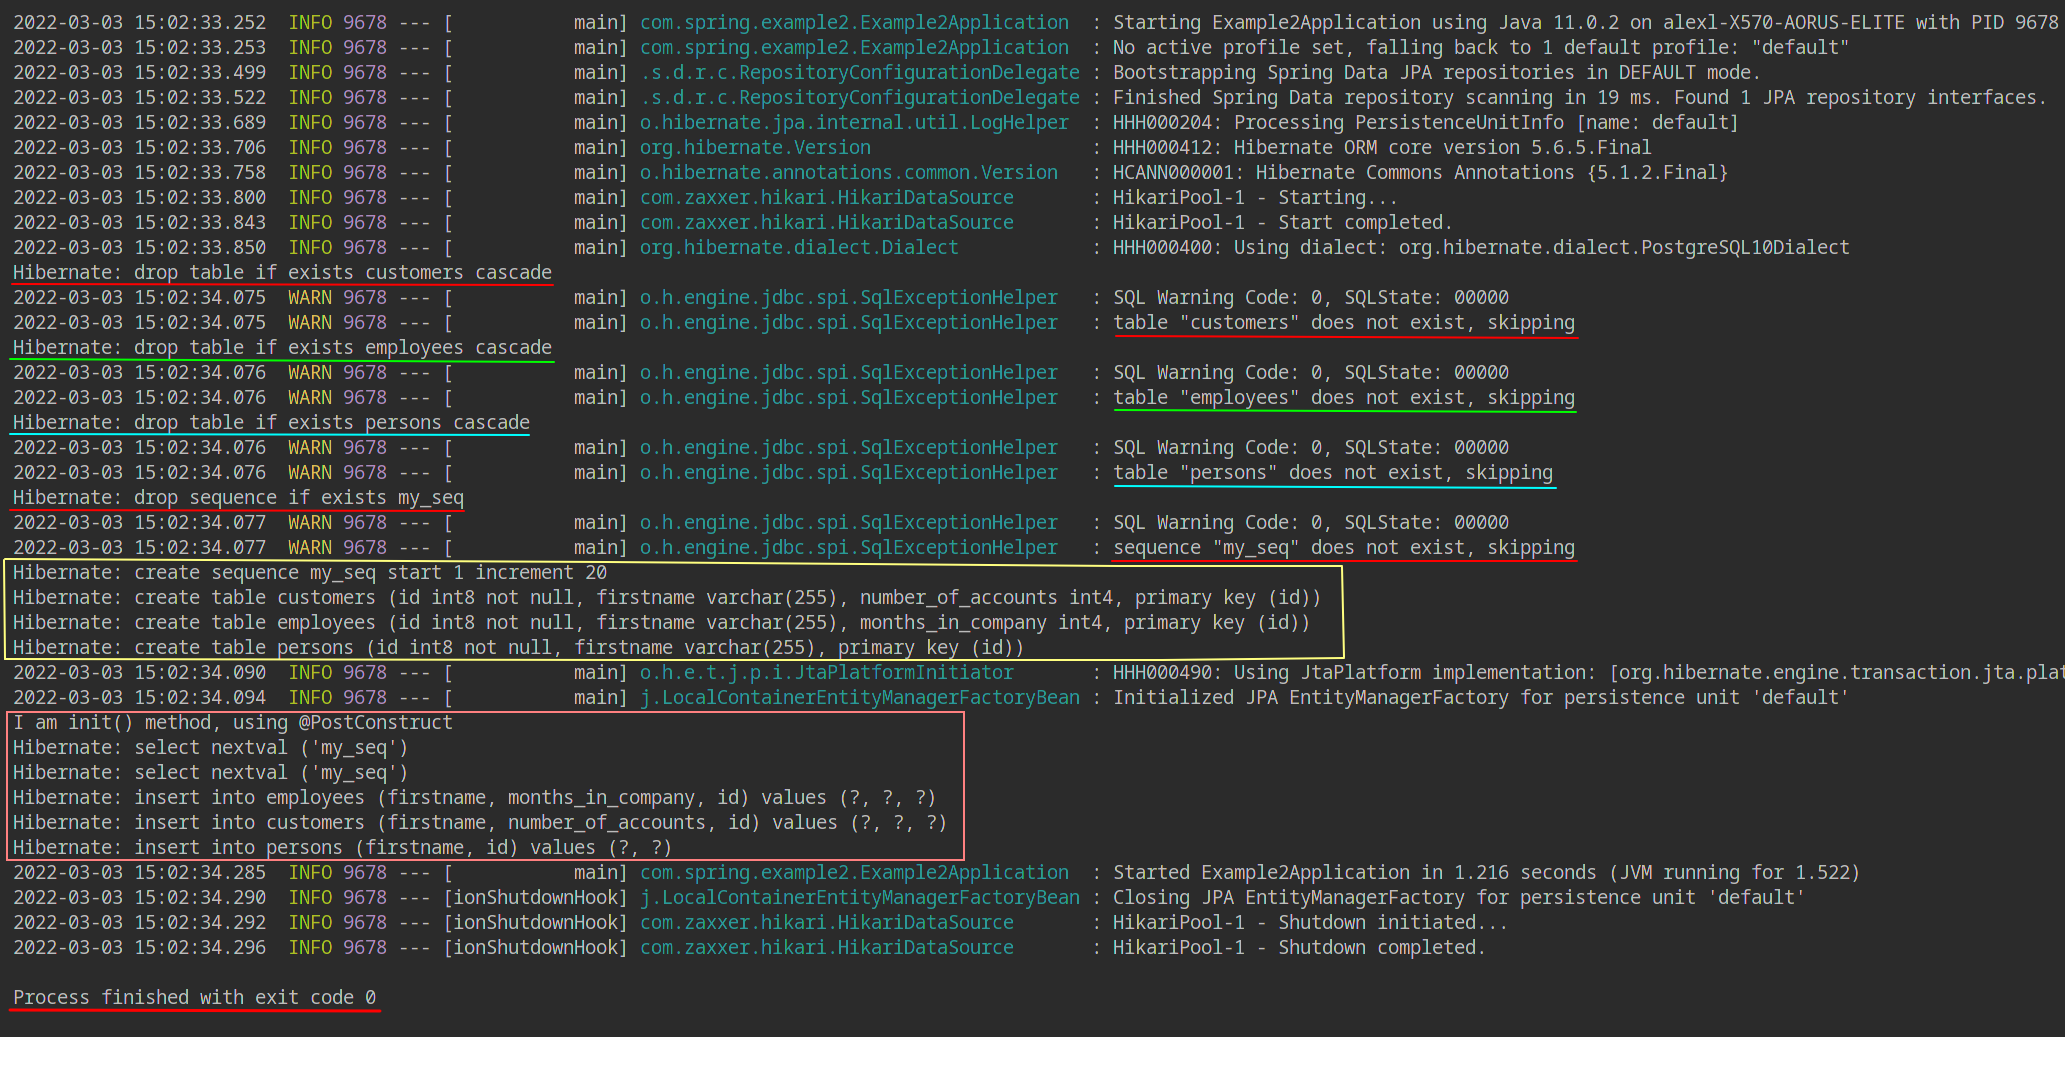
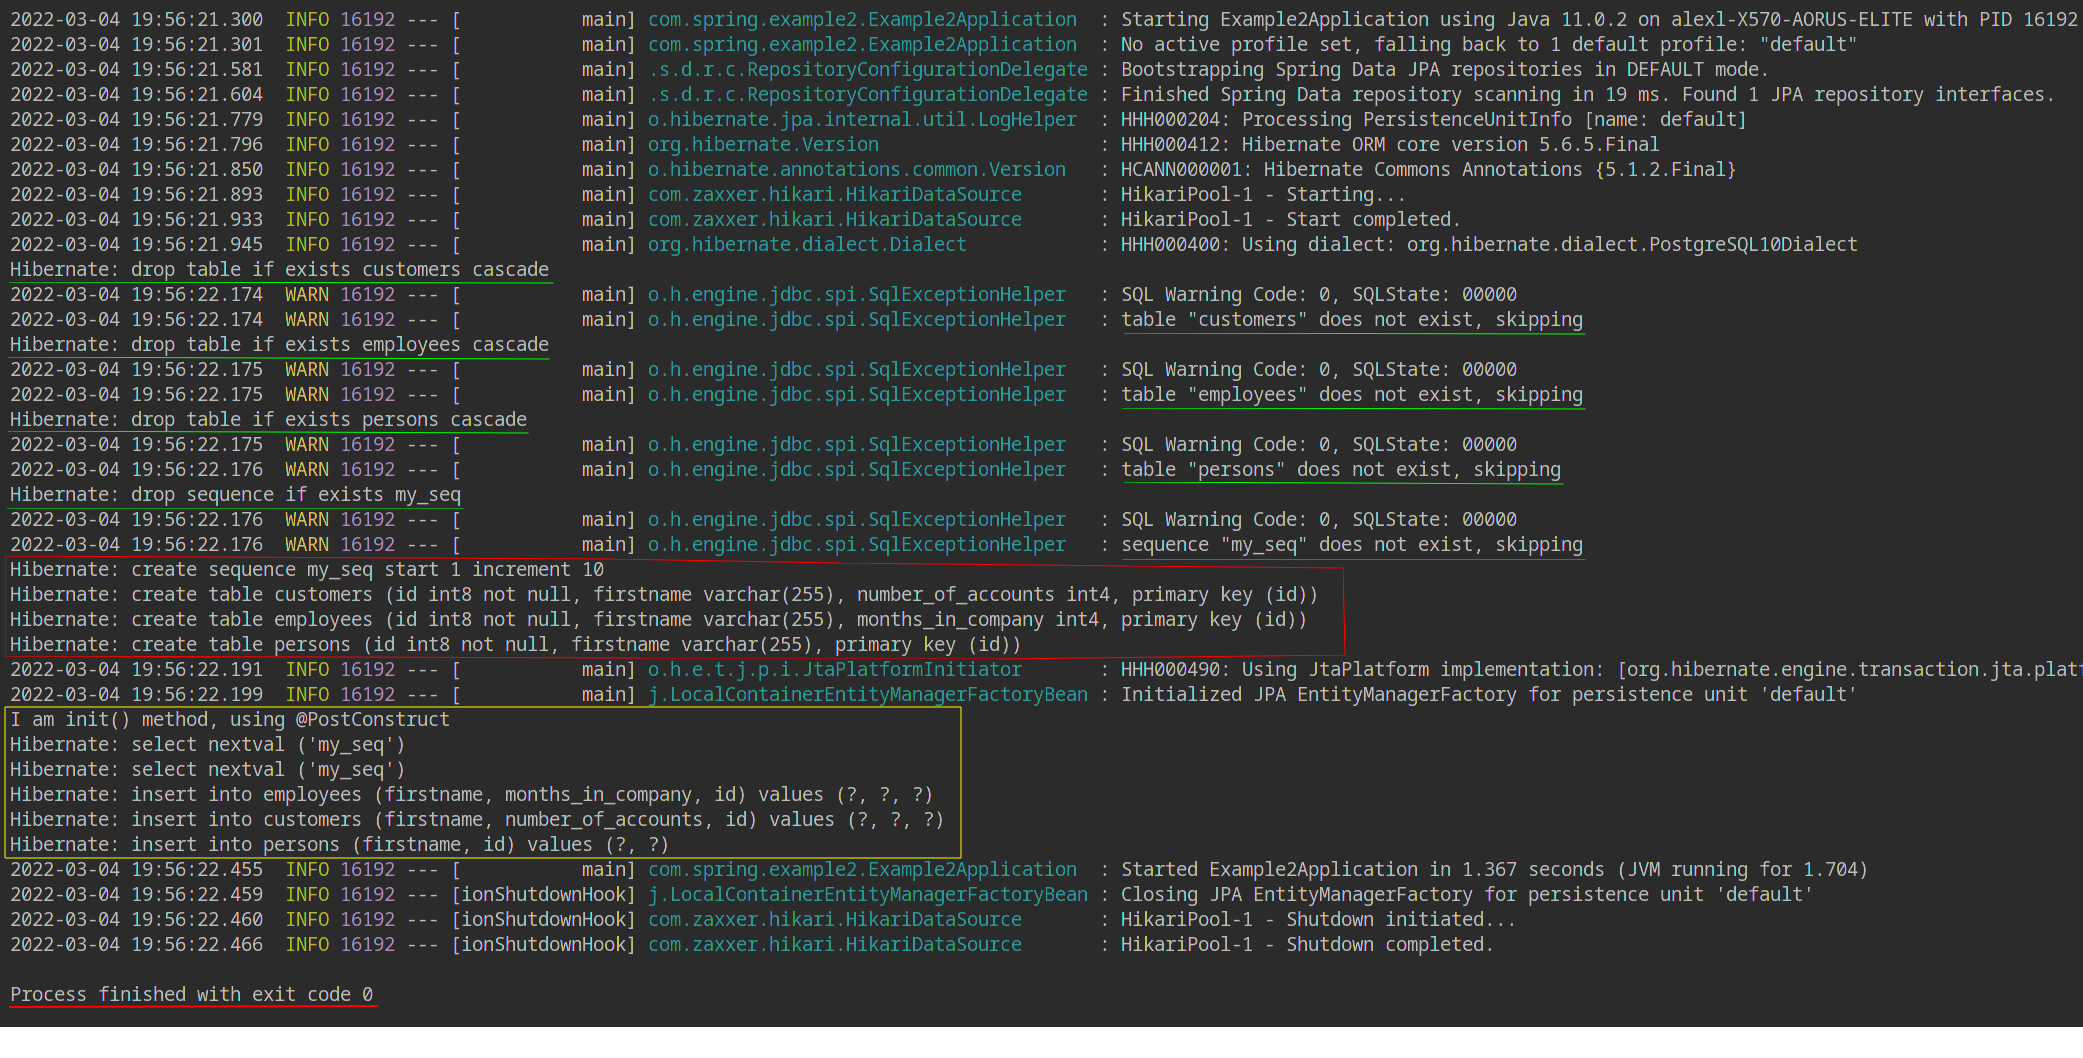
refactoring

Changed region(s): [[0.0, 0.0, 1.0, 0.9981]]

diff --git a/example4_single_table/src/main/java/com/spring/example4/Example4Application.java b/example4_single_table/src/main/java/com/spring/example4/Example4Application.java
@@ -30,13 +30,13 @@ public class Example4Application {
         System.out.println("I am init() method, using @PostConstruct");
 
         Employee employee = new Employee();
-        employee.setMonthsInCompany(11);
-        employee.setFirstname("Егорка");
+        employee.setMonthsInCompany(19);
+        employee.setFirstname("Кирил");
         personRepository.save(employee);
 
         Customer customer = new Customer();
-        customer.setNumberOfAccounts(12);
-        customer.setFirstname("Славик");
+        customer.setNumberOfAccounts(2);
+        customer.setFirstname("Федя");
         personRepository.save(customer);
 
         System.out.println("Select all persons");

diff --git a/example1_mapped_superclass/src/main/java/com/spring/example1/entity/Person.java b/example1_mapped_superclass/src/main/java/com/spring/example1/entity/Person.java
@@ -11,8 +11,8 @@ import javax.persistence.*;
 public abstract class Person {
 
     @Id
-    @GeneratedValue(strategy = GenerationType.SEQUENCE, generator = "my_seq")
-    @SequenceGenerator(name = "my_seq", sequenceName = "my_seq", allocationSize = 1)
+    @GeneratedValue(strategy = GenerationType.SEQUENCE, generator = "my_generator")
+    @SequenceGenerator(name = "my_generator", sequenceName = "my_seq", allocationSize = 1)
     @Column(name = "id")
     private Long id;
 

diff --git a/example2_table_per_class/src/main/java/com/spring/example2/entity/Person.java b/example2_table_per_class/src/main/java/com/spring/example2/entity/Person.java
@@ -14,7 +14,7 @@ public class Person {
 
     @Id
     @GeneratedValue(strategy = GenerationType.SEQUENCE, generator = "my_generator")
-    @SequenceGenerator(name = "my_generator", sequenceName = "my_seq", allocationSize = 20)
+    @SequenceGenerator(name = "my_generator", sequenceName = "my_seq", allocationSize = 10)
     @Column(name = "id")
     private Long id;
 

diff --git a/README.md b/README.md
@@ -1,5 +1,4 @@
-# Info
-- **Стратегии наследования в Hibernate**.
+# Стратегии наследования в Hibernate
 - Простые примеры кода.
 
 ### Модуль example1_mapped_superclass
@@ -16,24 +15,28 @@
    
 _Person_ — не сущность, в него просто вынесены общие поля сущностей _Employee_ и _Customer_.
 Класс _Person_ можно сделать **абстрактным**. Этот класс можно было бы назвать _AbstractEntity_.
-Ассоциаций (_@ManyToOne_, _@OneToMany_ и т.д.) с ним сделать нельзя!
+Ассоциаций (_@ManyToOne_, _@OneToMany_ и т.д.) с ним делать нельзя!
 
-**GenerationType.SEQUENCE** ("_sequence_" - "_последовательность_") - это специальный тип для генерации
+**_GenerationType.SEQUENCE_** ("_sequence_" - "_последовательность_") - это специальный тип для генерации
 значений из последовательности. Создаёте в базе данных, которая его поддерживает, например Postgres:  
 `CREATE SEQUENCE my_seq START WITH 100000;`  
 Используете в качестве генератора.
 
 `allocationSize` ("_allocation_" - "_распределение_") указывает Hibernat-у сколько нужно резервировать значений
-из последовательности за одно обращение к базе данных. В данном случае на каждое обращение - 1 значение. Чем больше,
+из последовательности за одно обращение к базе данных. В данном случае на каждое обращение 1 значение. Чем больше,
 тем сильнее снижается нагрузка на базу данных, но больше расходуется последовательность (иногда впустую).
 
 4. Дочерние классы _Employee_ и _Customer_:  
 ![](https://github.com/aleksey-nsk/inheritance_in_hibernate/blob/master/screenshots/example1/02_03_employee_and_customer.png)  
 
-5. Использована БД _Postgres_ в контейнере _Docker_. Настройки контейнера указываем в файле `docker-compose.yaml`:  
-![](https://github.com/aleksey-nsk/inheritance_in_hibernate/blob/master/screenshots/example1/04_docker_compose.png)  
+5. Репозиторий PersonRepository выглядит так:  
+![](https://github.com/aleksey-nsk/inheritance_in_hibernate/blob/master/screenshots/example1/04_1_repo.png)  
 
-6. Настройки подключения к БД прописываем в файле `application.yaml`:  
+6. Использована БД _Postgres_ в контейнере _Docker_. Настройки контейнера указываем  
+в файле `docker-compose.yaml`:  
+![](https://github.com/aleksey-nsk/inheritance_in_hibernate/blob/master/screenshots/example1/04_2_docker_compose.png)  
+
+7. Настройки подключения к БД прописываем в файле `application.yaml`:  
 ![](https://github.com/aleksey-nsk/inheritance_in_hibernate/blob/master/screenshots/example1/05_application.png)  
 
 In Spring/Spring-Boot, SQL database can be initialized in different ways depending on what your stack is.
@@ -58,17 +61,17 @@ otherwise `none` for all other cases.
 
 **В продакшене лучше выставлять значения `false` и `none`!**
 
-7. Главный класс выглядит так:  
+8. Главный класс выглядит так:  
 ![](https://github.com/aleksey-nsk/inheritance_in_hibernate/blob/master/screenshots/example1/06_main_class.png)  
 
-Spring allows us to attach custom actions to _bean creation and destruction_. We can, for example, do it
+Spring allows us to attach custom actions to **bean creation and destruction**. We can, for example, do it
 by implementing the _InitializingBean_ and _DisposableBean_ interfaces. A second possibility: the _@PostConstruct_
 and _@PreDestroy_ annotations.
 
-**Spring calls methods annotated with @PostConstruct only once, just after the initialization of bean properties**.
+**Spring calls methods annotated with _@PostConstruct_ only once, just after the initialization of bean properties**.
 Keep in mind that these methods will run even if there is nothing to initialize.
 The method annotated with _@PostConstruct_ can have any access level but it can't be static.
-One example usage of @PostConstruct is populating a database. During development, for instance,
+One example usage of _@PostConstruct_ is populating a database. During development, for instance,
 we might want to create some default users:
 
     @Component
@@ -88,7 +91,8 @@ we might want to create some default users:
 The above example will first initialize _UserRepository_ and then run _@PostConstruct_ method.
 
 **A method annotated with @PreDestroy runs only once, just before Spring removes our bean from the application context**.
-Same as with _@PostConstruct_, the methods annotated with _@PreDestroy_ can have any access level but can't be static.
+Same as with _@PostConstruct_, the methods annotated with _@PreDestroy_ can have any access level but
+can't be static. The example:
 
     @Component
     public class UserRepository {
@@ -104,19 +108,19 @@ Same as with _@PostConstruct_, the methods annotated with _@PreDestroy_ can have
 The purpose of this method should be to release resources or perform any other cleanup tasks
 before the bean gets destroyed, for example closing a database connection.
 
-8. Далее настроить подключение к БД на вкладке Database:  
+9. Далее настроить подключение к БД на вкладке Database:  
 ![](https://github.com/aleksey-nsk/inheritance_in_hibernate/blob/master/screenshots/example1/07_data_source.png)  
 
-9. Запускаем приложение:  
+10. Запускаем приложение:  
 ![](https://github.com/aleksey-nsk/inheritance_in_hibernate/blob/master/screenshots/example1/08_app_running.png)  
 
-10. Теперь смотрим созданные таблицы. Сгенерированы 2 независимые таблицы (внешних ключей нет, только первичные).
+11. Теперь смотрим созданные таблицы. Сгенерированы 2 независимые таблицы (внешних ключей нет, только первичные).
 Они включают поля родительского класса и свои:  
 ![](https://github.com/aleksey-nsk/inheritance_in_hibernate/blob/master/screenshots/example1/09_tables_structure.png)  
 ![](https://github.com/aleksey-nsk/inheritance_in_hibernate/blob/master/screenshots/example1/10_quick_documentation.png)  
 
-11. В итоге сохранять можно только дочерние сущности — они пойдут в независимые таблицы
-и будут включать поля родительской сущности. Отдельно _Customer_ не сохранить, это абстракция, в которую
+12. В итоге сохранять можно только дочерние сущности — они пойдут в независимые таблицы
+и будут включать поля родительской сущности. Отдельно _Person_ не сохранить, это абстракция, в которую
 вынесена часть полей.
 
 ### Модуль example2_table_per_class
@@ -125,7 +129,8 @@ before the bean gets destroyed, for example closing a database connection.
 
 Заметим, что при стратегии наследования _InheritanceType.TABLE_PER_CLASS_ нельзя использовать такую стратегию
 генерации идентификатора: `@GeneratedValue(strategy = GenerationType.IDENTITY)` - такая стратегия задаёт
-автоинкрементное поле. В данном примере используем `@GeneratedValue(strategy = GenerationType.SEQUENCE)` — так можно.
+автоинкрементное поле. В данном примере
+используем `@GeneratedValue(strategy = GenerationType.SEQUENCE)` — так можно.
 
 2. Родительский класс _Person_:  
 ![](https://github.com/aleksey-nsk/inheritance_in_hibernate/blob/master/screenshots/example2/01_class_person.png)  
@@ -177,11 +182,11 @@ before the bean gets destroyed, for example closing a database connection.
 **Первичные ключи** `employees.id` и `customers.id` являются заодно и **внешними**: они ссылаются на `persons.id`.
 
 7. Были созданы 2 сущности и сохранены в БД. В консоли видно, что
-генерируется 4 оператора _insert_ (ещё заполняется общая таблица):
-!!!  ДОБАВИТЬ СКРИН !!!!!!!
+генерируется 4 оператора _insert_ (ещё заполняется общая таблица):  
+![](https://github.com/aleksey-nsk/inheritance_in_hibernate/blob/master/screenshots/example3/07_1_insert.png)  
 
 8. Запрос, который сгенерирует Hibernate, для получения списка всех людей:  
-![](https://github.com/aleksey-nsk/inheritance_in_hibernate/blob/master/screenshots/example3/07_select.png)  
+![](https://github.com/aleksey-nsk/inheritance_in_hibernate/blob/master/screenshots/example3/07_2_select.png)  
 
 ### Модуль example4_single_table
 1. **Рассмотрим стратегию наследования _SINGLE_TABLE_. Стратегия наследования указывается в аннотации _@Inheritance_
@@ -212,15 +217,16 @@ before the bean gets destroyed, for example closing a database connection.
 столбец DTYPE — это столбец-дискриминатор. Он показывает, к какому классу принадлежит
 сущность: _Customer_ или _Employee_.
 
-7. Были созданы 2 сущности и сохранены в БД. В консоли видно, что генерируется два оператора _insert_:  
+7. Были созданы 2 сущности и сохранены в БД. В консоли видно, что генерируется 2 оператора _insert_:  
 ![](https://github.com/aleksey-nsk/inheritance_in_hibernate/blob/master/screenshots/example4/08_insert.png)  
 тогда как в предыдущем примере было 4 оператора _insert_ — ещё заполнялась общая таблица,
 что гораздо менее эффективно.
 
-8. **Недостаток — запрет _@NotNull_**: в таблице _person_ есть как общие для всех сущностей
+8. **Недостаток данной стратегии наследования — это запрет _@NotNull_**: в таблице _person_ есть
+как общие для всех сущностей
 столбцы — поля класса _Person_, так и столбцы подклассов _Customer_ и _Employee_. Столбцы подклассов
 не всегда заполнены: если заказчик _Customer_, то столбцы, зарезервированные под _Employee_, остаются пустыми.
-И наоборот. Поэтому невозможно ограничить значение столбцов наследников ограничением _@NotNull_.
+И наоборот. Поэтому невозможно ограничить значение столбцов наследников _ограничением @NotNull_.
 Если _NotNull constraint_ непременно нужен, то надо использовать
 другую стратегию, например **_InheritanceType.JOINED_**.
 
@@ -229,7 +235,7 @@ before the bean gets destroyed, for example closing a database connection.
 `List<Person> persons = personRepository.findAll();`  
 Приведён поиск методом `findAll()` _JpaRepository_, но под капотом там _HQL_.
 
-При этом генерируется SQL SELECT из одной таблицы person (других нет):  
+При этом генерируется SQL SELECT из одной таблицы _person_ (других нет):  
 ![](https://github.com/aleksey-nsk/inheritance_in_hibernate/blob/master/screenshots/example4/09_query.png)  
 
 10. **Итог: стратегия наследования _SINGLE_TABLE_ — самая простая и эффективная.
